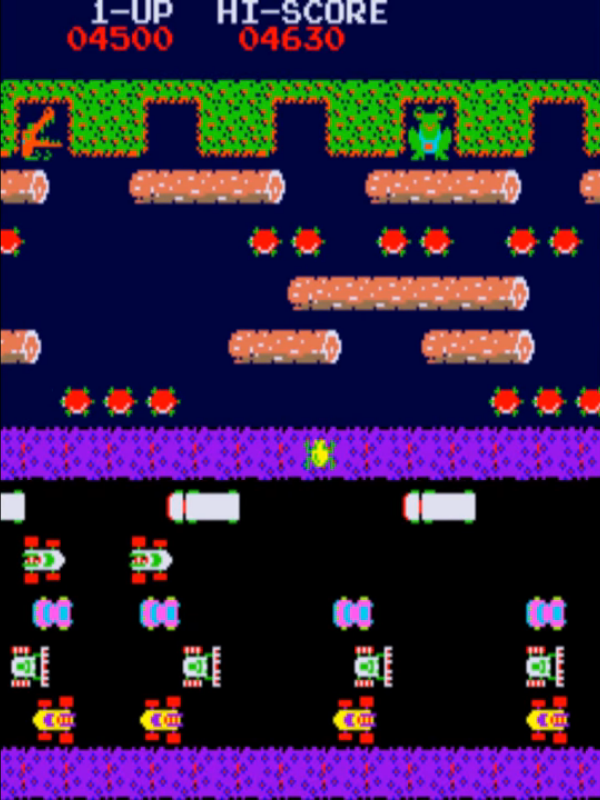
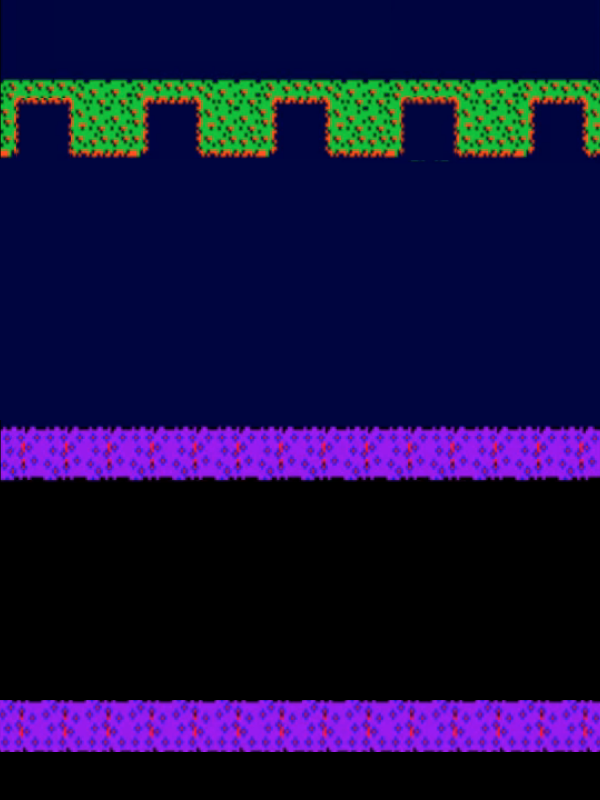
Upgrade-background image

diff --git a/src/p4_group_8_repo/Main.java b/src/p4_group_8_repo/Main.java
@@ -26,13 +26,13 @@ public class Main extends Application {
 	@Override
 	public void start(Stage primaryStage) throws Exception {
 	    background = new MyStage();
-	    Scene scene  = new Scene(background,600,800);
+	    Scene scene  = new Scene(background,600, 800);
 	    
 		//Obstacle obstacle = new Obstacle("file:resources/truck1Right.png", 25, 25, 3);
 		//Obstacle obstacle1 = new Obstacle("file:resources/truck2Right.png", 100, 100, 2 );
 		//Obstacle obstacle2 = new Obstacle("file:resources/truck1Right.png",0, 150, 1);
 
-		BackgroundImage froggerback = new BackgroundImage("file:resources/Screen Shot 2017-05-29 at 10.02.14 PM.png");
+		BackgroundImage froggerback = new BackgroundImage("file:resources/arcade.png");
 	    
 		background.add(froggerback);
 		
